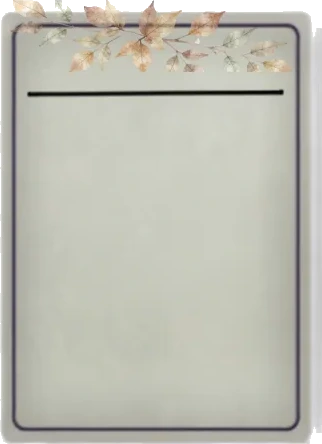
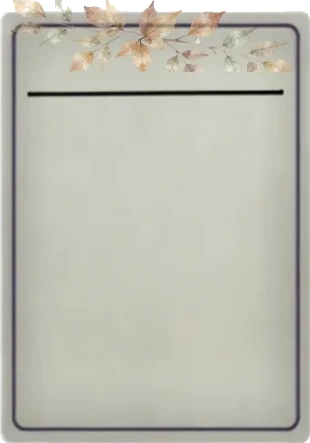
fix(rozklad): czyste przycięcie kart podstawowych (bez jasnego paska z prawej)
Karty klasyczna, jesienna i nieaktywna są wycinane zmierzonym prostokątem
z zaokrąglonymi rogami zamiast zalewania tła – zalewanie zostawiało wokół
karty jasnoszarą poświatę z oryginału.

diff --git a/src/lib/schedule/themes.ts b/src/lib/schedule/themes.ts
@@ -135,8 +135,8 @@ export const THEMES: Record<ThemeId, Theme> = {
     fonts: { name: SERIF, hours: SERIF },
     iconShadow: true,
     cardShadow: true,
-    active: paperFace('autumn', 322, 444, 0.132),
-    inactive: fadedFace('inactive', 228, 322, { cy: 0.13, size: 0.19 }, '#8b8e80'),
+    active: paperFace('autumn', 310, 443, 0.131),
+    inactive: fadedFace('inactive', 227, 321, { cy: 0.13, size: 0.19 }, '#8b8e80'),
   },
   winter: {
     id: 'winter',
@@ -194,8 +194,8 @@ export const THEMES: Record<ThemeId, Theme> = {
     fonts: { name: SERIF, hours: SERIF },
     iconShadow: true,
     cardShadow: true,
-    active: paperFace('classic', 322, 434, 0.108),
-    inactive: fadedFace('inactive', 228, 322, { cy: 0.13, size: 0.19 }, '#8b8e80'),
+    active: paperFace('classic', 310, 431, 0.107),
+    inactive: fadedFace('inactive', 227, 321, { cy: 0.13, size: 0.19 }, '#8b8e80'),
   },
 };
 
